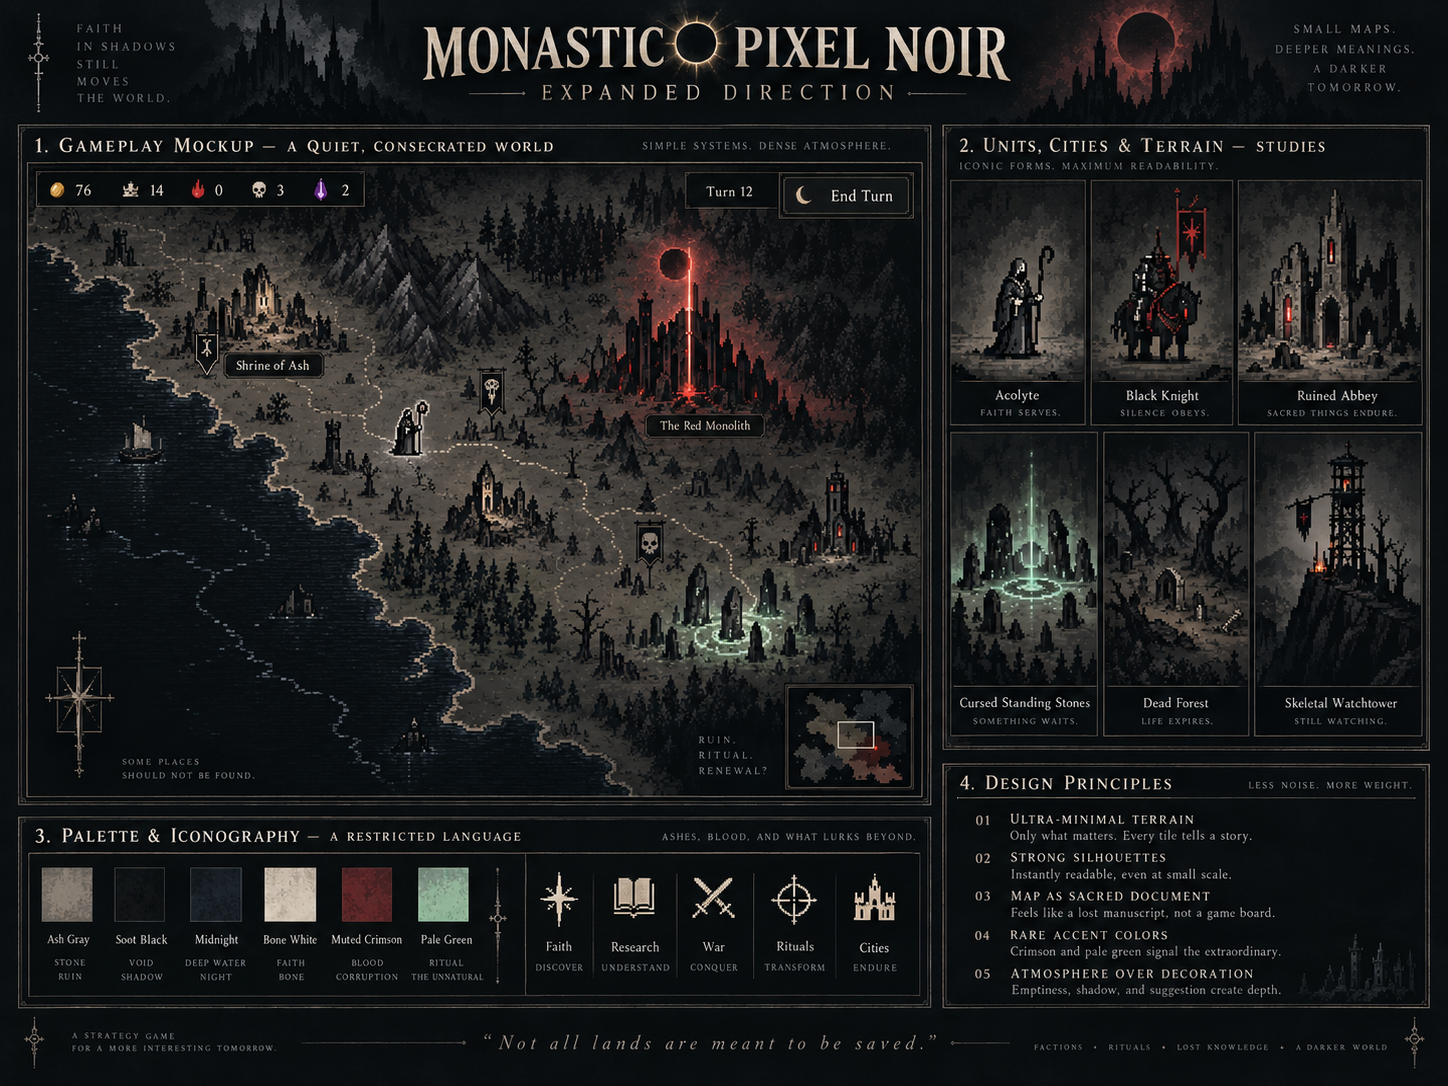
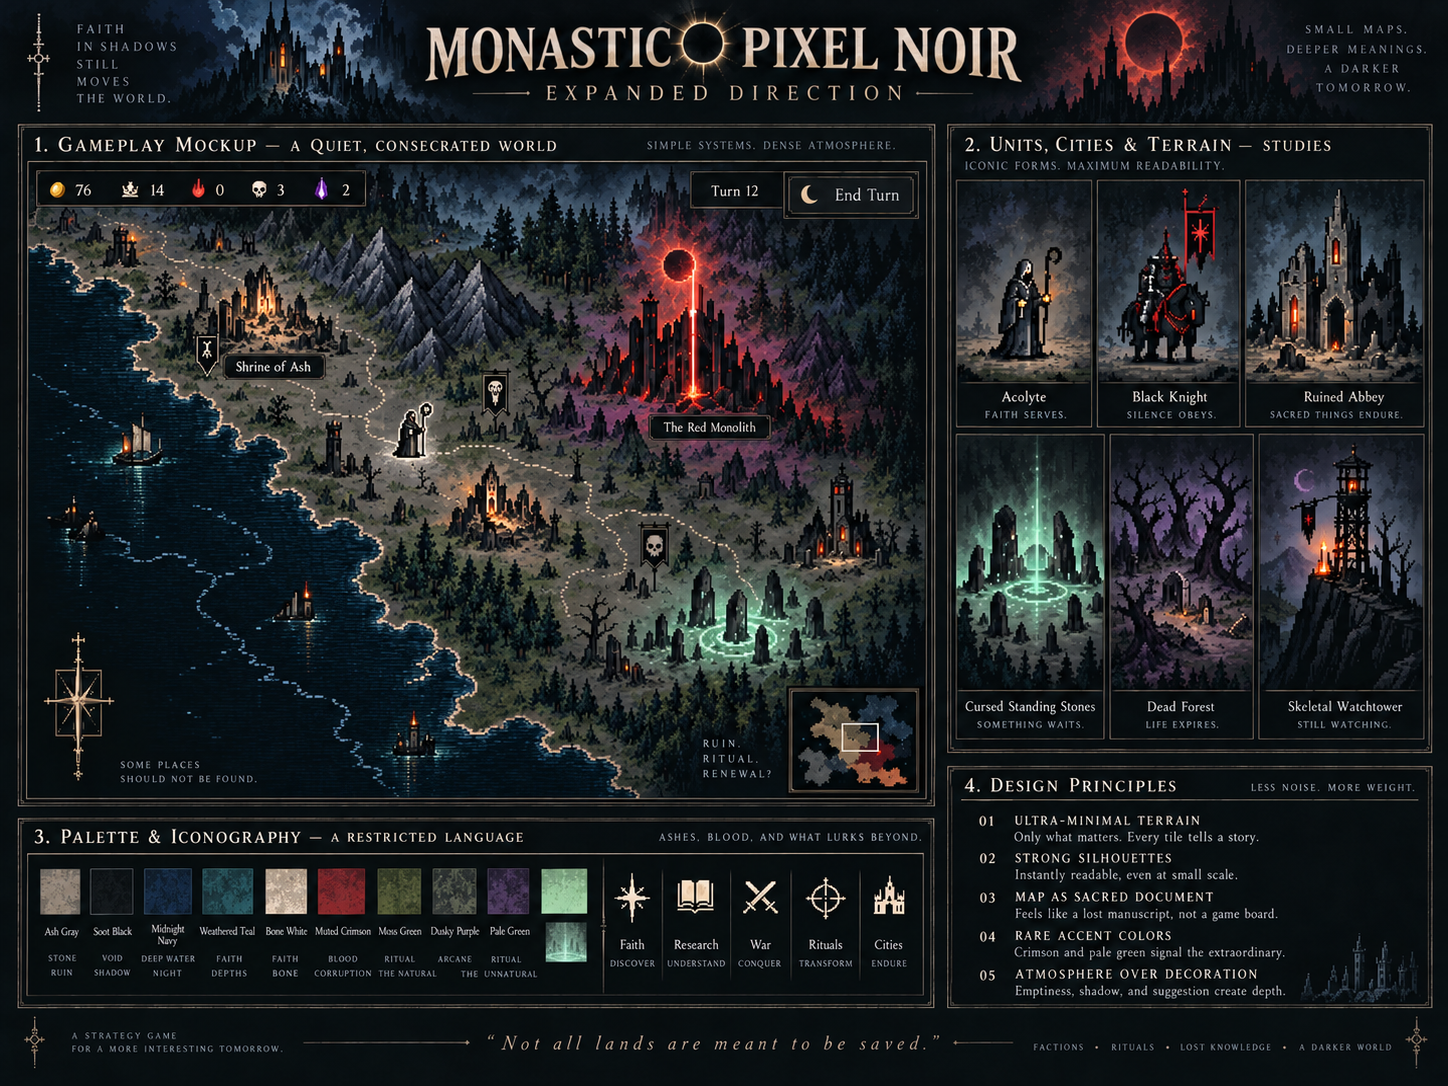
docs/art: mood board v2 (a little colour: moss, teal, navy, dusky purple, firelight); v1 kept for reference
Claude-Session: https://claude.ai/code/session_015m21G1a13FKUWE1YyaXREp

diff --git a/projects/ffh2-rs/docs/art/README.md b/projects/ffh2-rs/docs/art/README.md
@@ -1,7 +1,16 @@
 # Art direction reference
 
-`mood-board.png` is the user's mood board for the human-play client's look ("Monastic Pixel Noir"):
-dark, restricted-palette pixel art; strong silhouettes on near-empty terrain; the map as a
-manuscript; muted crimson and pale green reserved for the extraordinary. The board is a style direction and vibe only, not a UX spec: its words, specific symbols,
-icons and layout are placeholders from the mock-up tool, not part of the direction. All game art is original
-(no Civ4/FFH2 assets); see `docs/ART.md` for the style guide.
+`mood-board.png` is the user's mood board for the human-play client's look ("Monastic Pixel Noir",
+with a little colour): dark pixel art; strong silhouettes on quiet terrain; the map as a
+manuscript. The palette is muted but not monochrome: soot and ash neutrals, bone white, deep
+midnight navy water, weathered teal, moss green land, dusky purple for the arcane, warm firelight
+in windows and torches, with muted crimson (blood, corruption) and pale green (ritual, the
+unnatural) reserved for the extraordinary.
+
+The board is a style direction and vibe only, not a UX spec: its words, specific symbols, icons
+and layout are placeholders from the mock-up tool, not part of the direction.
+
+`mood-board-v1-monochrome.png` is the first, near-monochrome version, superseded by the one above
+(kept for reference: same mood, less colour).
+
+All game art is original (no Civ4/FFH2 assets); see `docs/ART.md` for the style guide.
